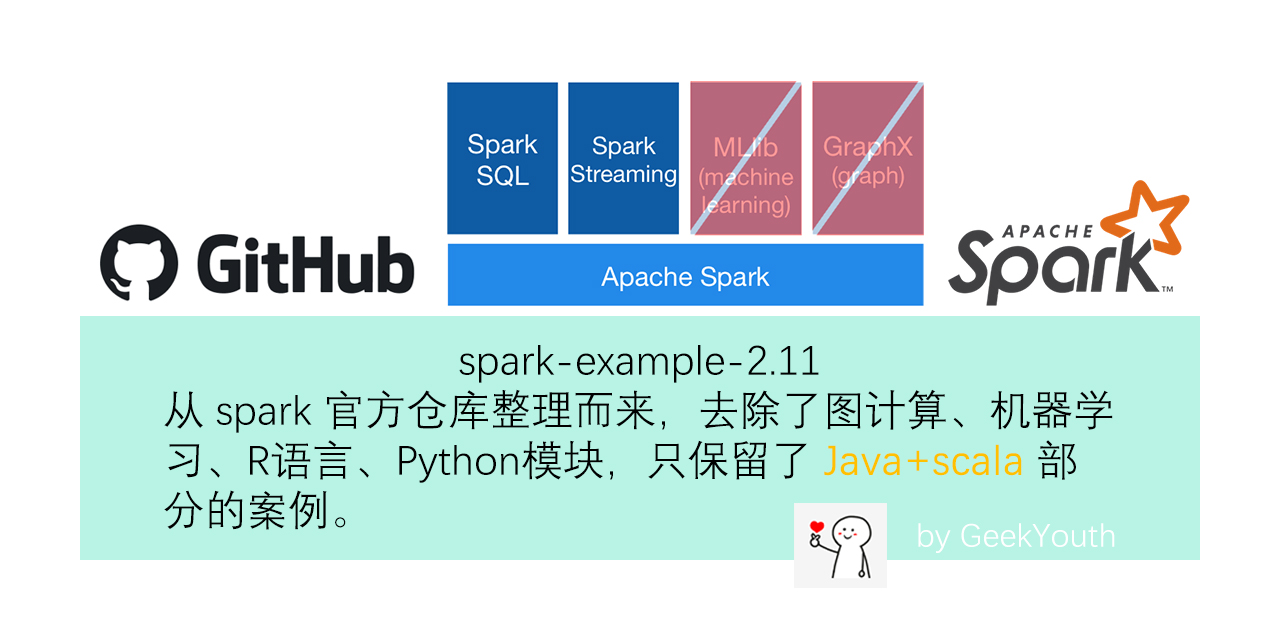
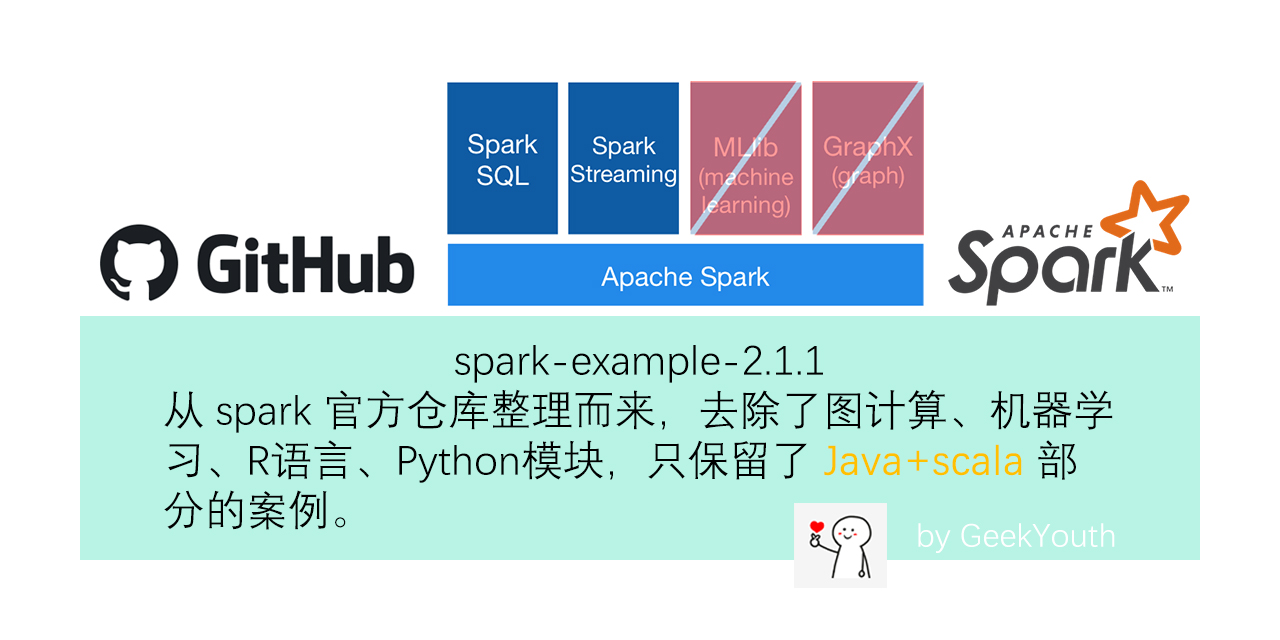
修正版本号

Changed region(s): [[0.3438, 0.5312, 0.6562, 0.5938]]

diff --git a/README.md b/README.md
@@ -1,5 +1,8 @@
 
-spark-example-2.11
-从 spark 官方仓库整理而来，去除了图计算、机器学习、R语言、Python模块，只保留了 Java+scala 部分的案例。
+spark-example-2.1.1
 
 ![](.pic/banner.jpg)
+
+---
+2020-03-12
+- 修正版本号：2.1.1  
